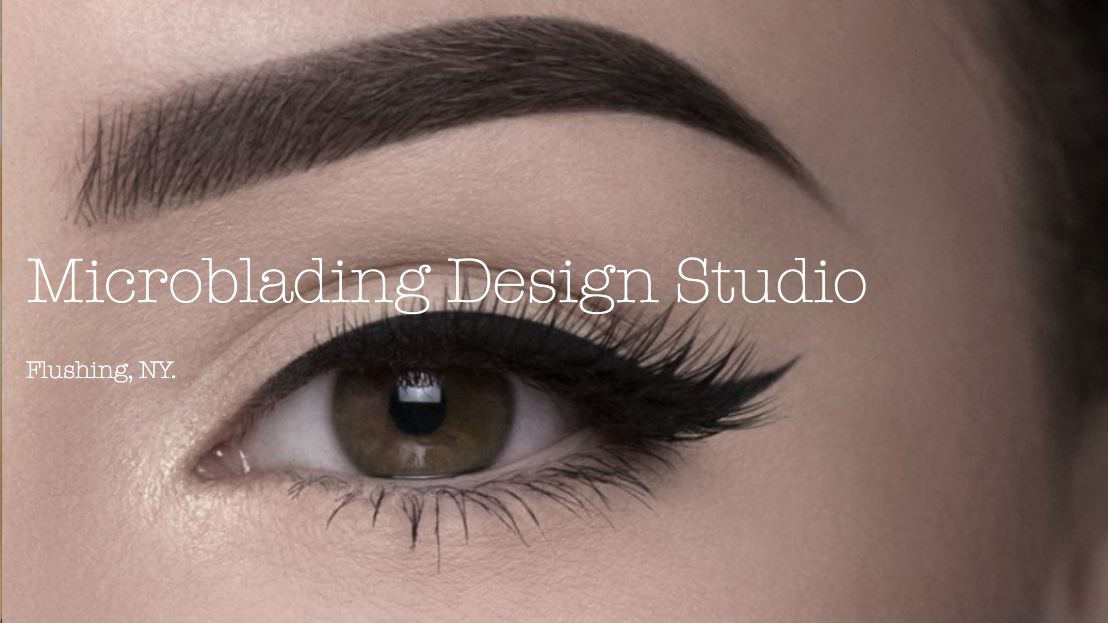
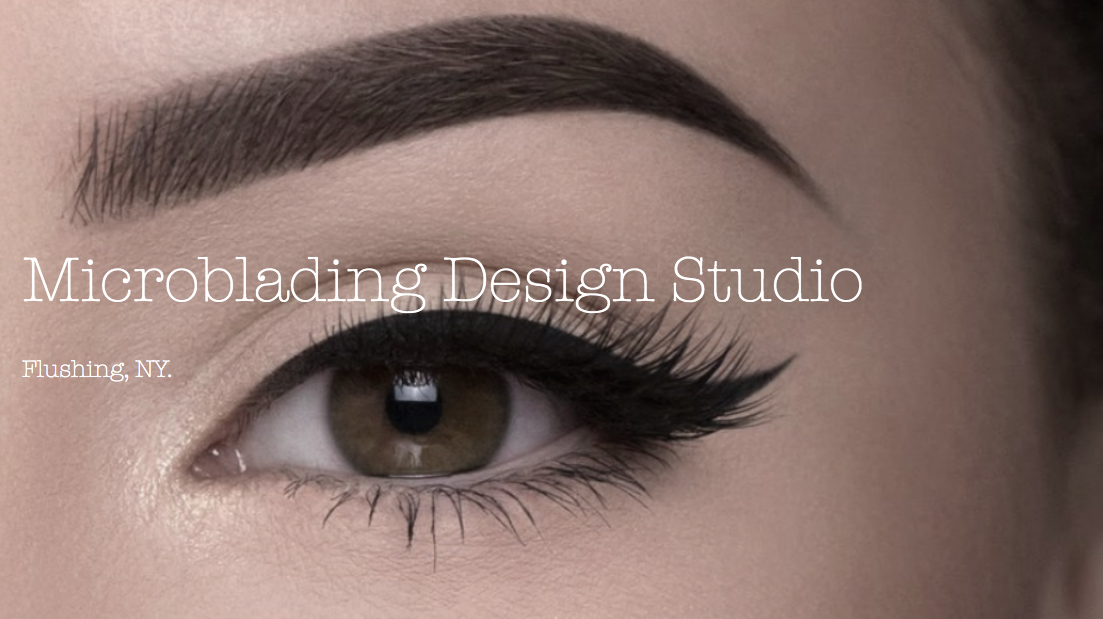
f

diff --git a/services.html b/services.html
@@ -138,12 +138,11 @@ a:link,a:visited,a:hover,a:active {
 
 
 <!-- Header with full-height image -->
-<header class="display-container content wide" style="max-width:1500px;min-width:500px">
-	<img class="image" src="photos/homepage.png"width="1600" height="800">
-
+<header class="display-container content wide" style="max-width:100%;margin-top:48px;">
+	<img class="image" src="photos/homepage.png"width="100%">
 </header>
 
-<div class="content" style="max-width:1100px;margin-top:80px;margin-bottom:80px">
+<div class="content" style="margin-top:80px;margin-bottom:80px">
 
 
 
